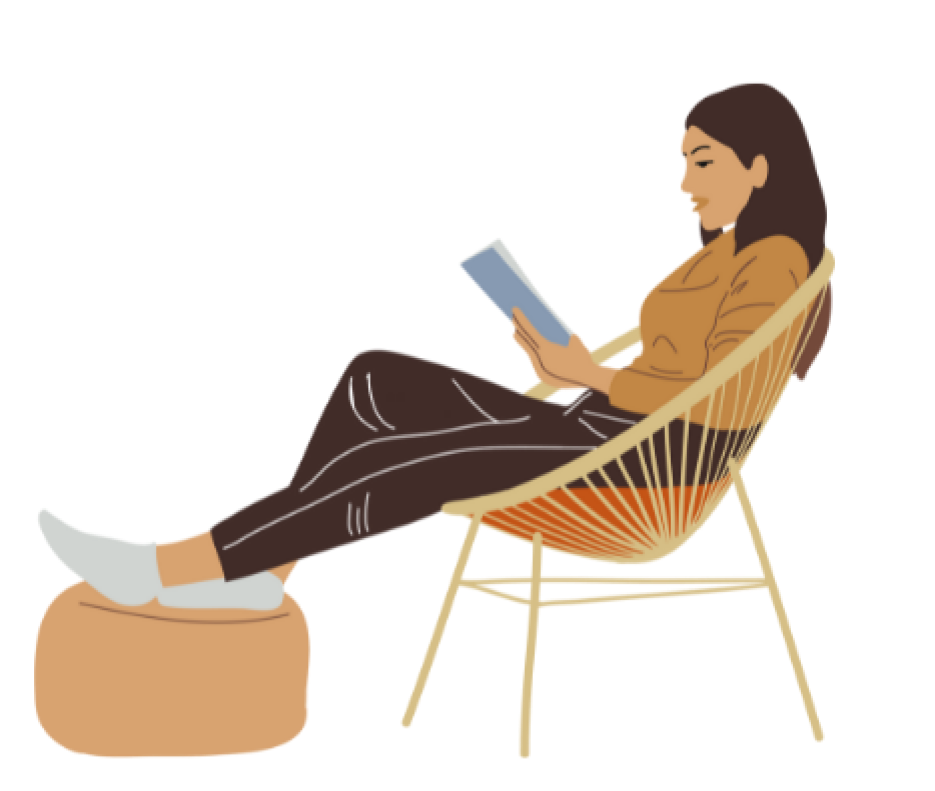
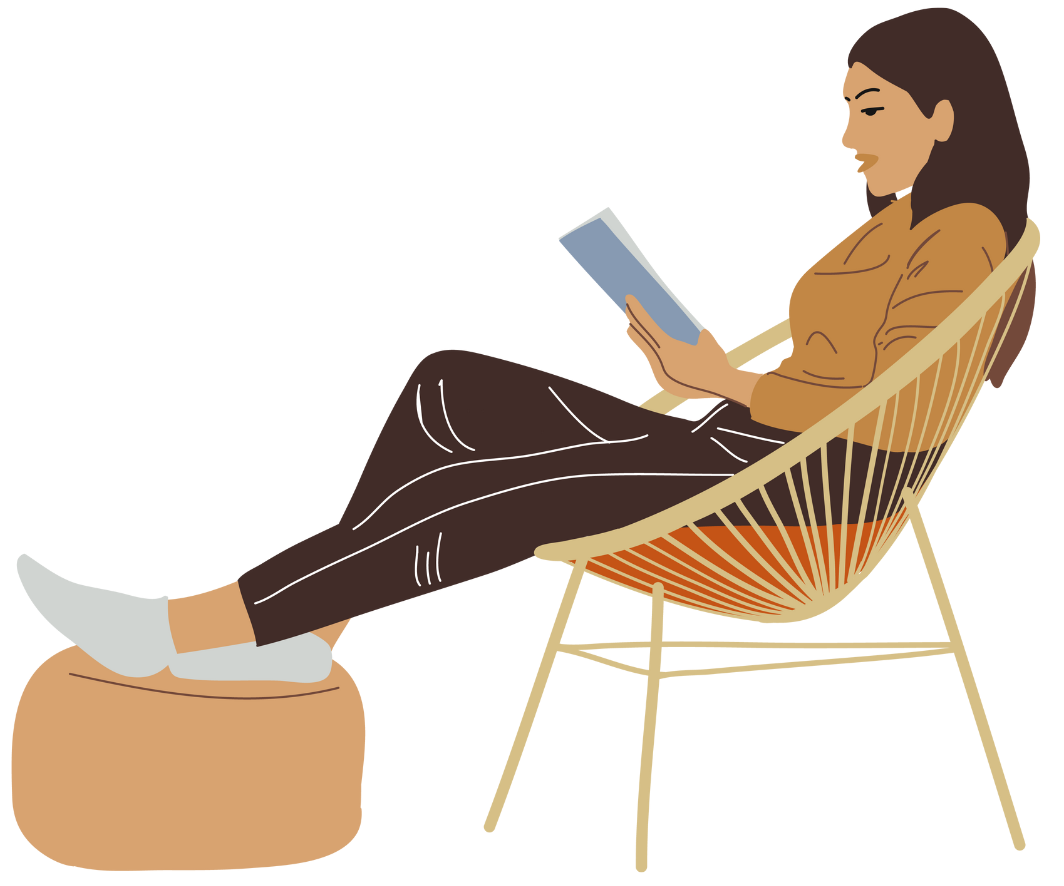
resolução de conflitos estilizacao login Co-authored-by: Ray Pinto <rayannepinto@users.noreply.github.com> Co-authored-by: Alana Karine <AlanaK2@users.noreply.github.com>

Changed region(s): [[0.0, 0.0, 0.9925, 1.0]]

diff --git a/src/css/style.css b/src/css/style.css
@@ -1,0 +1,169 @@
+@import url('https://fonts.googleapis.com/css2?family=Poppins&family=Questrial&family=Roboto&display=swap');
+
+font-family: 'Poppins', sans-serif;
+font-family: 'Questrial', sans-serif;
+font-family: 'Roboto', sans-serif;
+
+* {
+    margin: 0;
+    padding: 0;
+    box-sizing: border-box;
+    text-decoration: none; 
+}
+
+body {
+    background-color: #ABD9D8;
+}
+
+.background-home {
+  display: none;
+}
+
+
+.form {
+  background-color: #FFF;
+  width: 30rem;
+  height: 40rem;
+  display: flex;
+  flex-direction: column;
+  align-items: center;
+  border-radius: 2rem;
+  font-family: 'Poppins', sans-serif;
+}
+
+.text-one {
+    margin-top: -3rem;
+}
+
+.form picture {
+    margin-top: 1rem;
+}
+
+.input-login {
+    font-family: 'Roboto', sans-serif;
+    border-radius: 2rem;
+    background-color: #ABD9D8;
+    padding: 1%;
+    margin-top: 0.5rem;
+}
+
+.button-login {
+    border-radius: 2rem;
+    background-color: #D8A370;
+    font-family: 'Poppins', sans-serif;
+}
+
+.button-sign-in{
+    display: flex;
+    align-content: center;
+    margin-top: 1rem;
+    padding: 0 1rem 0;
+}
+
+.button-sign-up{
+    display: flex;
+    align-content: center; 
+}
+
+.button-google {
+    margin-bottom: 0.5rem;
+}
+
+
+
+@media all and (min-width: 1200px) {
+
+
+    .img-woman {
+        margin-top: 6rem;
+        max-width: 70%;
+        max-height: 80%;
+        margin-left: 15rem;
+    }
+    .form {
+        width: 55rem;
+        height: 51rem;
+        font-size: 20px;
+        margin: 1rem 0.5rem;
+       }
+}
+
+@media all and (max-width: 940px) {
+
+  body {
+    background-image: url(/src/img/background.png);
+    background-size: contain;
+  }
+
+  .input-login {
+    width: 80%;
+  }
+
+  .img-logo {
+    width: 12rem;
+    height: 10rem;
+    margin-bottom: 2rem;
+  } 
+  
+ .form {
+  width: 20rem;
+  height: 35rem;
+  border-radius: 2rem;
+  margin: 2rem auto;
+ } 
+
+ .text-one {
+  padding-top: 0.6rem;
+ }
+}
+
+@media all and (min-width: 940px) {
+    
+    .home-page {
+        display: flex;
+        flex-direction: row;
+    }
+
+    .background-home {
+        display: flex;
+        flex-direction: column;
+        max-height: 700px;
+      }
+
+    .img-woman {
+        width: 100vw;
+        height: 100vw;
+        margin-right: 6rem;
+        margin-top: 0.5rem;
+    }
+
+   .quote {
+    color: #FFF;
+    font-family: 'Questrial', sans-serif;
+    text-shadow: #D8A370;
+    padding: 2rem;
+    font-size: 24px;
+   }
+
+   .img-logo {
+    width: 18rem;
+    height: 15rem;
+   }
+
+   .form {
+    width: 50rem;
+    height: 41rem;
+    font-size: 20px;
+    margin: 1rem 0.5rem;
+   }
+
+   .input-login {
+    width: 80%;
+    font-size: 18px;
+   }
+
+   .button-login {
+    font-size:20px;
+   }
+  
+}

diff --git a/src/pages/home.js b/src/pages/home.js
@@ -3,20 +3,24 @@ export const homeFunction = () => {
   const container = document.createElement('div');
 
   const templateLogin = `
-<section class="login">
-      <div>
-        <img src="./img/logo.png" alt="Logo Booknotes" />
-        <p>
+<section class="home-page">
+      <div class="background-home"> 
+        <p class="background-home quote">
           “Sempre fomos o que os homens disseram que nós éramos. Agora somos nós
           que vamos dizer o que somos.“ — Lygia Fagundes Telles
         </p>
-        <p>Faça seu login!</p>
-        <input type="email" placeholder="leitora@email.com" />
-        <input type="text" placeholder="***********" />
-        <button type="submit">Entrar</button>
-        <button type="submit">Entrar com o google</button>
-        <p>Ainda não tem uma conta?</p>
-        <button type="submit">Cadastre-se!</button>
+        <img class="img-woman" src="../src/img/reading.png" alt="Mulher sentada e lendo livro">
+      </div>   
+      <div class="form">
+        <picture><img src="/src/img/logo.png" class="img-logo" alt="Logo Booknotes"></picture>
+        <p class="text-login text-one">Faça seu login!</p>
+        <input class="input-login" type="email" placeholder="leitora@email.com" />
+        <input class="input-login" type="text" placeholder="***********" />
+        <button class="button-sign-in button-login" type="submit">Entrar</button>
+        <p class="text-login text-two">────── Ou entrar com ──────</p>
+        <a href=""><img src="/src/img/google.png" class="button-google" alt="Logo do Google"></a>
+        <p class="text-login text-three">Ainda não tem uma conta?</p>
+        <button class="button-sign-up button-login" type="submit">Cadastre-se!</button>
       </div>
     </section>
 `;

diff --git a/src/index.html b/src/index.html
@@ -6,10 +6,9 @@
     <meta http-equiv="X-UA-Compatible" content="ie=edge" />
     <title>Booknotes</title>
     <link rel="icon" type="image/x-icon" href="" alt="">
-    <link rel="stylesheet" href="">
+    <link rel="stylesheet" href="../src/css/style.css">
   </head>
   <body id="root">
-    
     
     <script type="module" src="./lib/index.js"></script>
   </body>
